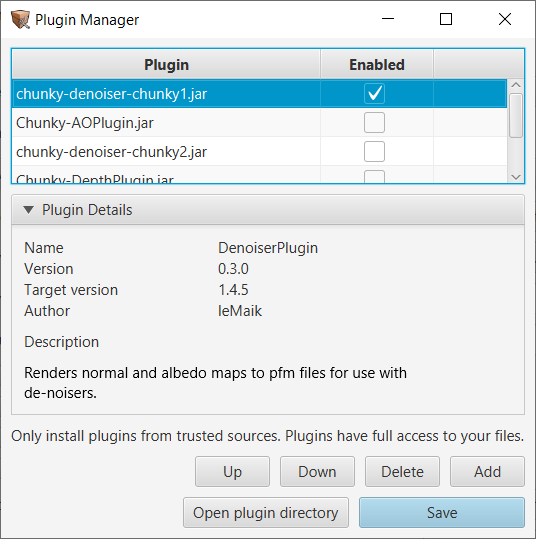
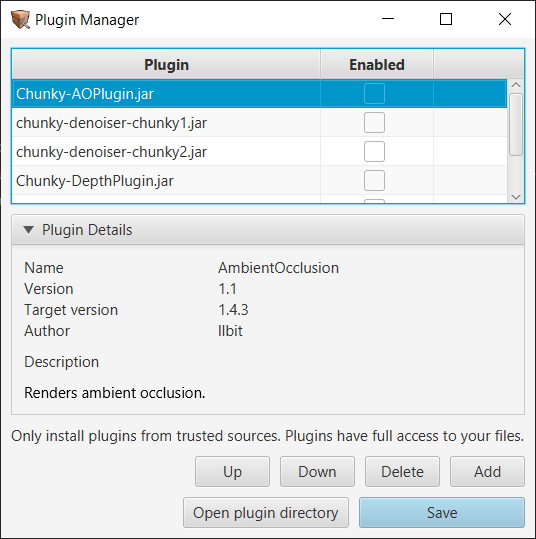
Moved & updated Plugins
Plugins now under UI. Added images for plugins (some) plugins.

diff --git a/docs/userinterface/plugins.md b/docs/userinterface/plugins.md
@@ -1,0 +1,123 @@
+---
+title: Plugins
+parent: Installation
+has_children: false
+nav_order: 2
+---
+
+# Plugins
+todo - Add pictures
+{: .no_toc }
+
+## Table of contents
+{: .no_toc .text-delta }
+
+1. TOC
+{:toc}
+
+
+
+---
+## Denoising Plugin
+created by leMaik
+
+{% responsive_image path: "assets/images/user_interface/plugins/chunky_denoiser_ui.png" %}
+
+<style type="text/css">
+.tg  {border-collapse:collapse;border-spacing:0;}
+.tg td{border-color:black;border-style:solid;border-width:1px;font-family:Arial, sans-serif;font-size:14px;
+  overflow:hidden;padding:10px 5px;word-break:normal;}
+.tg th{border-color:black;border-style:solid;border-width:1px;font-family:Arial, sans-serif;font-size:14px;
+  font-weight:normal;overflow:hidden;padding:10px 5px;word-break:normal;}
+.tg .tg-0lax{text-align:left;vertical-align:top}
+</style>
+<table class="tg">
+<thead>
+  <tr>
+    <th class="tg-0lax">Noisy image</th>
+    <th class="tg-0lax">Denosied output</th>
+  </tr>
+</thead>
+<tbody>
+  <tr>
+    <td class="tg-0lax">{% responsive_image path: "assets/images/user_interface/plugins/1_plugin_test-512.png" %}</td>
+    <td class="tg-0lax">{% responsive_image path: "assets/images/user_interface/plugins/1_plugin_test-512.denoised.png" %}</td>
+  </tr>
+</tbody>
+</table>
+
+For a description and some examples please see the section on [AI Based Denoising under Advanced Techniques]({{ site.baseurl }}/docs/advanced_techniques/denoising.html#ai-based-denoising--plugins).
+
+[GitHub Repo](https://github.com/leMaik/chunky-denoiser)
+
+[Releases page](https://github.com/leMaik/chunky-denoiser/releases){: .btn }
+
+
+---
+## Discord Rich Presence plugin
+created by leMaik
+
+{% responsive_image path: "assets/images/user_interface/plugins/chunky_discord.png" %}
+
+{% responsive_image path: "assets/images/user_interface/plugins/discord_rtp.png" %}
+
+Unreleased.
+
+---
+## Chunky-octree-plugin
+created by aTom3333
+
+This is a plugin for Chunky that adds more octree implementations such as Compressed Siblings which, while it does almost half memory usage, cannot be built & results in slower render times. See the GitHub repo for more information and use.
+
+[GitHub Repo](https://github.com/leMaik/chunky-denoiser)
+
+[Releases page]((https://github.com/aTom3333/chunky-octree-plugin/releases/tag/v0.1.0){: .btn }
+
+---
+## *demo* Ambient Occlusion Plugin
+created by llbit
+
+Preview
+{% responsive_image path: "assets/images/user_interface/plugins/1_plugin_test-0.png" %}
+
+AO
+{% responsive_image path: "assets/images/user_interface/plugins/1_plugin_test-AO.png" %}
+
+[GitHub Repo](https://github.com/llbit/Chunky-AOPlugin)
+
+[Complied Chunky-AOPlugin]({{ site.baseurl }}/assets/downloads/plugins/Chunky-AOPlugin.jar){: .btn }
+
+
+---
+## *demo* Depth Buffer Plugin
+created by llbit
+
+Preview
+{% responsive_image path: "assets/images/user_interface/plugins/1_plugin_test-0.png" %}
+
+Depth
+{% responsive_image path: "assets/images/user_interface/plugins/1_plugin_test-depth.png" %}
+
+[GitHub Repo](https://github.com/llbit/Chunky-DepthPlugin)
+
+[Complied Chunky-DepthPlugin]({{ site.baseurl }}/assets/downloads/plugins/Chunky-DepthPlugin.jar){: .btn }
+
+
+---
+## Plugin Templates
+
+
+---
+### *demo* Block Plugin Template
+created by llbit
+
+[GitHub Repo](https://github.com/llbit/Chunky-BlockMod)
+
+
+---
+### *demo* Tab Plugin Template
+created by llbit
+
+[Github Repo](https://github.com/llbit/Chunky-TabMod)
+
+
